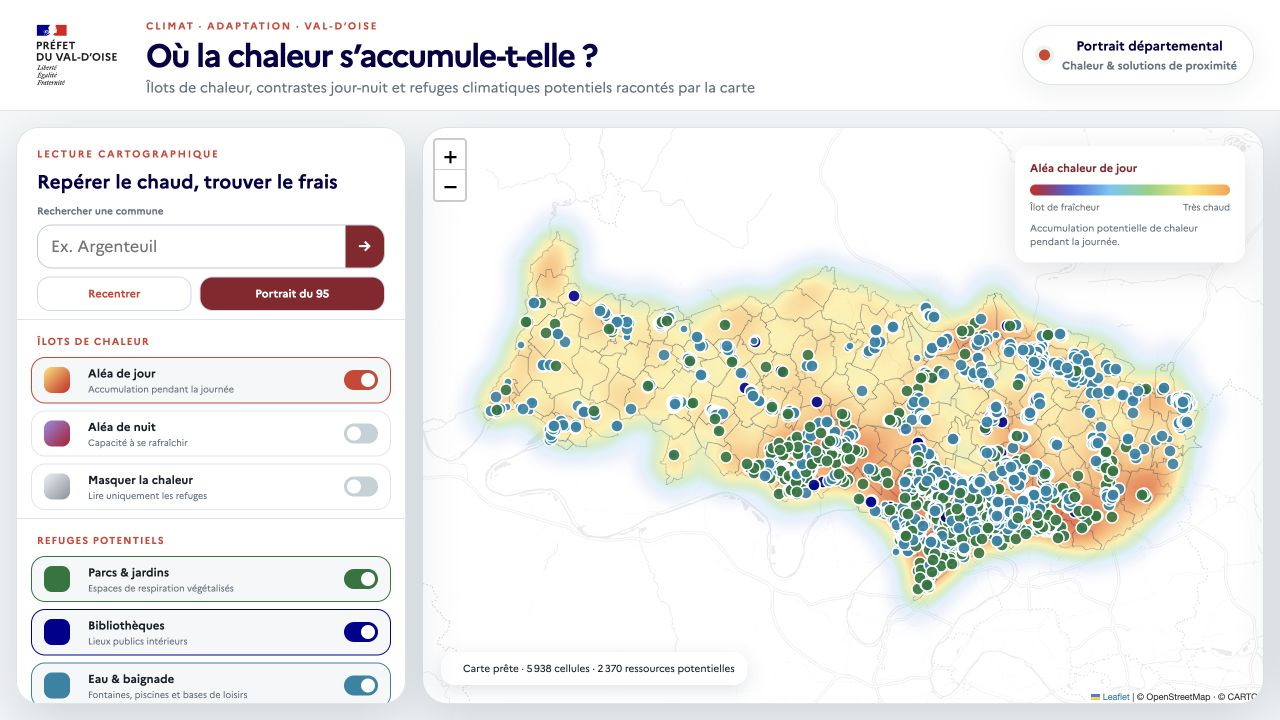
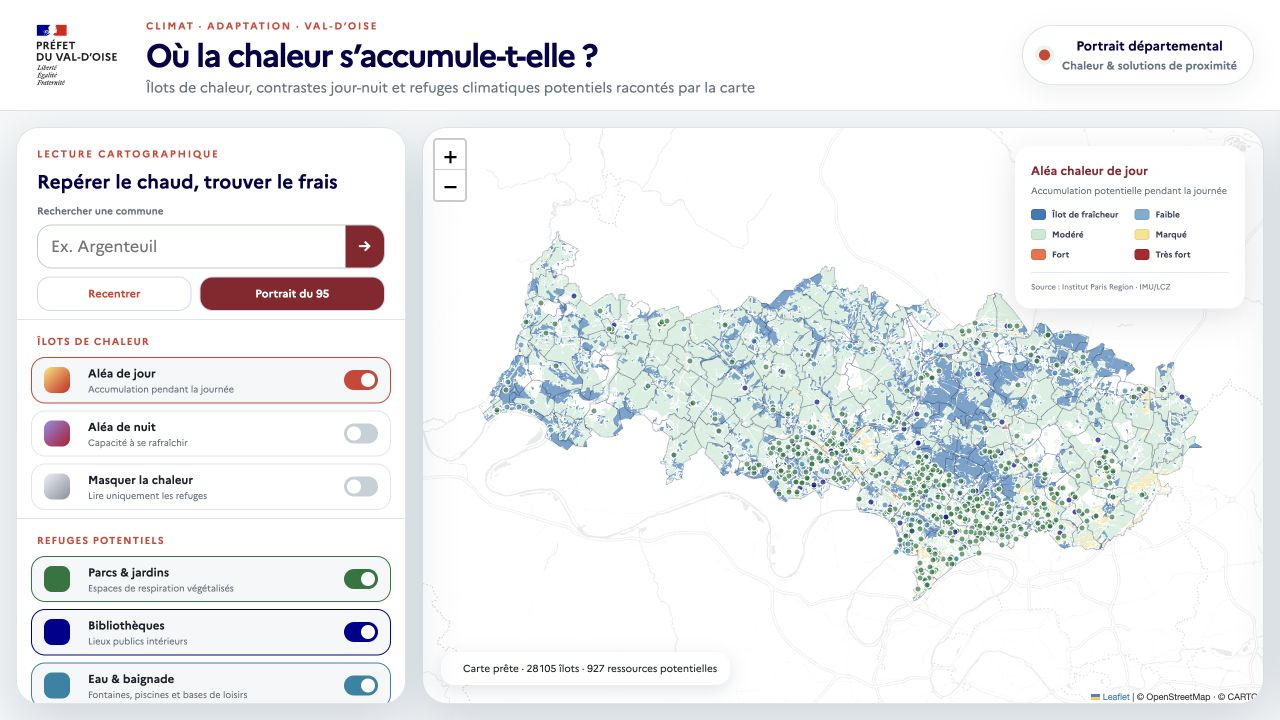
Refondre la carte de chaleur et sa légende

Changed region(s): [[0.3438, 0.3056, 0.9688, 0.8556], [0.7812, 0.2139, 0.9688, 0.3667], [0.4062, 0.9167, 0.5625, 0.9472]]

diff --git a/js/app.js b/js/app.js
@@ -3,12 +3,12 @@ const fmt=(n,d=0)=>Number(n||0).toLocaleString('fr-FR',{maximumFractionDigits:d}
 const state={heatMode:'day',refuges:new Set(['outdoor','indoor','water']),data:{},heatLayer:null,gridLayer:null,refugeLayer:null,communeLayer:null};
 const map=L.map('map',{zoomControl:true,preferCanvas:true,minZoom:8,maxZoom:17}).setView([49.08,2.15],10);
 L.tileLayer('https://{s}.basemaps.cartocdn.com/light_nolabels/{z}/{x}/{y}{r}.png',{maxZoom:19,subdomains:'abcd',attribution:'© OpenStreetMap · © CARTO'}).addTo(map);
-const heatGradients={day:{.05:'#4568dc',.22:'#65c7f7',.4:'#8bd37c',.58:'#ffe66d',.76:'#ff9f43',1:'#d7191c'},night:{.05:'#263b80',.25:'#536dcb',.45:'#9b8ee8',.65:'#e56ba4',.82:'#ff8a5c',1:'#b90d2f'}};
 const refugeColors={outdoor:'#18753c',indoor:'#000091',water:'#1683a6'};
-const cellColor=(value,night)=>{const ramp=night?['#263b80','#536dcb','#9b8ee8','#e56ba4','#ff8a5c','#b90d2f']:['#4568dc','#65c7f7','#8bd37c','#ffe66d','#ff9f43','#d7191c'];return ramp[Math.min(ramp.length-1,Math.floor(Math.max(0,value)*ramp.length))]};
-async function load(){try{const [heat,refuges,communes,profiles,boundary,polygons]=await Promise.all(['heat_points.json','refuges.json','communes_95.geojson','commune_profiles.json','val-doise.geojson','heat_polygons.geojson'].map(name=>fetch(`data/${name}?v=4`).then(r=>{if(!r.ok)throw Error(name);return r.json()})));state.data={heat,refuges,communes,profiles,boundary,polygons};renderHeat();renderRefuges();renderCommunes();map.fitBounds(L.geoJSON(boundary).getBounds(),{padding:[18,18]});$('mapStatus').textContent=`Carte prête · ${fmt(polygons.features.length)} îlots · ${fmt(refuges.length)} ressources potentielles`;bind()}catch(error){console.error(error);$('mapStatus').textContent='Certaines données ne sont pas disponibles'}}
-function renderHeat(){if(state.heatLayer){map.removeLayer(state.heatLayer);state.heatLayer=null}if(state.gridLayer){map.removeLayer(state.gridLayer);state.gridLayer=null}if(state.heatMode==='off'){$('mapLegend').hidden=true;return}$('mapLegend').hidden=false;const index=state.heatMode==='day'?2:3,property=state.heatMode==='day'?'day':'night',night=state.heatMode==='night';if(map.getZoom()<12){state.heatLayer=L.heatLayer(state.data.heat.map(p=>[p[0],p[1],p[index]]),{radius:22,blur:19,maxZoom:12,minOpacity:.24,gradient:heatGradients[state.heatMode]}).addTo(map)}else{state.gridLayer=L.geoJSON(state.data.polygons,{renderer:L.canvas({padding:.5}),style:f=>({stroke:true,color:'#ffffff',weight:.25,opacity:.35,fill:true,fillColor:cellColor((Number(f.properties[property])+1)/6,night),fillOpacity:.66}),interactive:false}).addTo(map)}$('mapLegend').querySelector('strong').textContent=`Aléa chaleur de ${night?'nuit':'jour'}`;$('mapLegend').querySelector('.ramp').style.background=`linear-gradient(90deg,${Object.values(heatGradients[state.heatMode]).join(',')})`;$('mapLegend').querySelector('p').textContent=map.getZoom()>=12?'Lecture détaillée par îlot morphologique urbain.':night?'Persistance de la chaleur et difficulté de refroidissement nocturne.':'Accumulation potentielle de chaleur pendant la journée.'}
-function renderRefuges(){if(state.refugeLayer)map.removeLayer(state.refugeLayer);state.refugeLayer=L.layerGroup();state.data.refuges.filter(r=>state.refuges.has(r.family)).forEach(refuge=>{const marker=L.circleMarker([refuge.lat,refuge.lon],{radius:refuge.type==='Point d’eau'?4:6,color:'#fff',weight:1.5,fillColor:refugeColors[refuge.family],fillOpacity:.9,pane:'markerPane'});marker.bindTooltip(`<strong>${esc(refuge.name)}</strong><br>${esc(refuge.type)}`,{className:'heat-tooltip'});marker.on('click',()=>showRefuge(refuge));marker.addTo(state.refugeLayer)});state.refugeLayer.addTo(map)}
+const heatColors=['#2c7bb6','#74add1','#c7e9d4','#fee08b','#f46d43','#b2182b'];
+const classIndex=value=>Math.max(0,Math.min(5,Math.round(Number(value)+1)));
+async function load(){try{const [refuges,communes,profiles,boundary,polygons]=await Promise.all(['refuges.json','communes_95.geojson','commune_profiles.json','val-doise.geojson','heat_polygons.geojson'].map(name=>fetch(`data/${name}?v=5`).then(r=>{if(!r.ok)throw Error(name);return r.json()})));state.data={refuges,communes,profiles,boundary,polygons};renderHeat();renderRefuges();renderCommunes();map.fitBounds(L.geoJSON(boundary).getBounds(),{padding:[18,18]});$('mapStatus').textContent=`Carte prête · ${fmt(polygons.features.length)} îlots · ${fmt(refuges.length)} ressources potentielles`;bind()}catch(error){console.error(error);$('mapStatus').textContent='Certaines données ne sont pas disponibles'}}
+function renderHeat(){if(state.heatLayer){map.removeLayer(state.heatLayer);state.heatLayer=null}if(state.gridLayer){map.removeLayer(state.gridLayer);state.gridLayer=null}if(state.heatMode==='off'){$('mapLegend').hidden=true;return}$('mapLegend').hidden=false;const property=state.heatMode==='day'?'day':'night',detailed=map.getZoom()>=12;state.gridLayer=L.geoJSON(state.data.polygons,{renderer:L.canvas({padding:.5}),style:f=>({stroke:detailed,color:'#fff',weight:detailed ? 0.45 : 0,opacity:.7,fill:true,fillColor:heatColors[classIndex(f.properties[property])],fillOpacity:detailed ? 0.78 : 0.7}),interactive:false}).addTo(map);$('mapLegend').querySelector('strong').textContent=`Aléa chaleur de ${state.heatMode==='night'?'nuit':'jour'}`;$('mapLegend').querySelector('.legend-intro').textContent=state.heatMode==='night'?'Capacité des îlots à se refroidir la nuit':'Accumulation potentielle pendant la journée'}
+function renderRefuges(){if(state.refugeLayer)map.removeLayer(state.refugeLayer);state.refugeLayer=L.layerGroup();const overview=map.getZoom()<11;state.data.refuges.filter(r=>state.refuges.has(r.family)).forEach(refuge=>{const marker=L.circleMarker([refuge.lat,refuge.lon],{radius:overview?3:refuge.type==='Point d’eau'?4:6,color:'#fff',weight:overview?1:1.5,fillColor:refugeColors[refuge.family],fillOpacity:overview ? 0.68 : 0.9,pane:'markerPane'});marker.bindTooltip(`<strong>${esc(refuge.name)}</strong><br>${esc(refuge.type)}`,{className:'heat-tooltip'});marker.on('click',()=>showRefuge(refuge));marker.addTo(state.refugeLayer)});state.refugeLayer.addTo(map)}
 function renderCommunes(){state.communeLayer=L.geoJSON(state.data.communes,{style:()=>({color:'#172554',weight:.55,opacity:.34,fillOpacity:0}),onEachFeature:(feature,layer)=>{const code=String(feature.properties.code||feature.properties.code_insee||feature.properties.insee),profile=state.data.profiles[code];layer.bindTooltip(profile?.name||feature.properties.nom,{sticky:true,className:'heat-tooltip'});layer.on({mouseover:e=>e.target.setStyle({weight:2,color:'#070047'}),mouseout:e=>state.communeLayer.resetStyle(e.target),click:()=>showCommune(code,layer)})}}).addTo(map)}
 function heatLabel(value){return value>=3.4?'aléa fort':value>=2.3?'aléa marqué':value>=1.2?'aléa modéré':'effet rafraîchissant ou limité'}
 function showCommune(code,layer){const p=state.data.profiles[code];if(!p)return;map.fitBounds(layer.getBounds(),{padding:[65,65],maxZoom:13});const nearby=state.data.refuges.filter(r=>layer.getBounds().contains([r.lat,r.lon])).length;$('detailContent').innerHTML=`<span class="detail-tag">COMMUNE · CHALEUR · VAL-D’OISE</span><h2>${esc(p.name)}</h2><p class="subtitle">Aléas morphoclimatiques · référentiel IPR</p><div class="property-grid"><div class="property hot"><small>ALÉA DE JOUR</small><strong>${heatLabel(p.day)}</strong><span>indice moyen ${fmt(p.day,1)}</span></div><div class="property night"><small>ALÉA DE NUIT</small><strong>${heatLabel(p.night)}</strong><span>indice moyen ${fmt(p.night,1)}</span></div></div><section class="heat-profile"><small>PART DES ÎLOTS LES PLUS CHAUDS</small><div><span>Jour <b>${fmt(p.hot_day_pct,1)} %</b></span><i><b style="width:${p.hot_day_pct}%"></b></i></div><div><span>Nuit <b>${fmt(p.hot_night_pct,1)} %</b></span><i><b style="width:${p.hot_night_pct}%"></b></i></div></section><section class="balance-card"><div><span>RESSOURCES REPÉRÉES</span><strong>${fmt(nearby)}</strong></div><p>Ressources potentielles dans l’emprise cartographique communale. Décompte indicatif.</p></section><p class="detail-method">Les valeurs agrègent les îlots dont le centroïde se situe dans la commune. Elles ne sont ni une température mesurée ni un classement réglementaire.</p>`;$('detailPanel').classList.add('open')}
@@ -16,5 +16,5 @@ function showRefuge(r){$('detailContent').innerHTML=`<span class="detail-tag">RE
 function search(q){const clean=s=>s.normalize('NFD').replace(/\p{Diacritic}/gu,'').toLowerCase(),items=Object.entries(state.data.profiles).filter(([,p])=>clean(p.name).includes(clean(q))).slice(0,8),box=$('searchResults');box.innerHTML=items.map(([code,p])=>`<button data-result="${code}">${esc(p.name)}</button>`).join('');box.hidden=!q||!items.length;box.querySelectorAll('button').forEach(button=>button.onclick=()=>{box.hidden=true;$('searchInput').value=state.data.profiles[button.dataset.result].name;state.communeLayer.eachLayer(layer=>{const props=layer.feature.properties,code=String(props.code||props.code_insee||props.insee);if(code===button.dataset.result)showCommune(code,layer)})})}
 function openSynthesis(){const profiles=Object.values(state.data.profiles),avg=k=>profiles.reduce((sum,p)=>sum+p[k],0)/profiles.length,hot=profiles.slice().sort((a,b)=>b.night-a.night).slice(0,5),counts=state.data.refuges.reduce((a,r)=>(a[r.family]=(a[r.family]||0)+1,a),{});$('synthesisContent').innerHTML=`<div class="synthesis-dashboard-head"><span class="detail-tag">SYNTHÈSE DÉPARTEMENTALE</span><h2>Chaleur et ressources de fraîcheur · Val-d’Oise</h2><p>Une vue d’ensemble pour prioriser les secteurs à approfondir et rendre visibles les solutions de proximité.</p></div><div class="synthesis-dashboard-kpis"><div class="kpi-tile warn"><small>Cellules de chaleur</small><strong>${fmt(state.data.heat.length)}</strong><em>grille simplifiée</em></div><div class="kpi-tile warn"><small>Aléa moyen jour</small><strong>${fmt(avg('day'),1)}</strong><em>indice relatif</em></div><div class="kpi-tile warn"><small>Aléa moyen nuit</small><strong>${fmt(avg('night'),1)}</strong><em>indice relatif</em></div><div class="kpi-tile"><small>Ressources potentielles</small><strong>${fmt(state.data.refuges.length)}</strong><em>OpenStreetMap</em></div><div class="kpi-tile"><small>Communes couvertes</small><strong>${fmt(profiles.length)}</strong><em>Val-d’Oise</em></div></div><section class="synthesis-viz"><div class="synthesis-section-head"><strong>Ressources repérées</strong><span>inventaire indicatif</span></div>${synthBar('Parcs & jardins',counts.outdoor||0,(counts.outdoor||0)/state.data.refuges.length*100,'#18753c')}${synthBar('Bibliothèques',counts.indoor||0,(counts.indoor||0)/state.data.refuges.length*100,'#000091')}${synthBar('Eau & baignade',counts.water||0,(counts.water||0)/state.data.refuges.length*100,'#1683a6')}</section><section class="synthesis-viz"><div class="synthesis-section-head"><strong>Refroidissement nocturne</strong><span>communes à approfondir</span></div>${hot.map((p,i)=>synthBar(`${i+1}. ${esc(p.name)}`,fmt(p.night,1),p.night/5*100,'#d82e66')).join('')}</section><div class="synthesis-insights"><strong>À retenir</strong><p>Le contraste jour-nuit est essentiel : les secteurs qui conservent la chaleur la nuit exposent davantage les habitants lors des épisodes longs.</p><p>La qualification officielle d’un refuge nécessite une validation locale des horaires, de l’accessibilité et du confort.</p></div><p class="detail-method">Sources : Institut Paris Region, OpenStreetMap et IGN. Voir les précautions pour les limites.</p>`;$('detailPanel').classList.remove('open');if(!$('synthesisDialog').open)$('synthesisDialog').showModal()}
 function synthBar(label,value,width,color){return `<div class="synthesis-bar-row"><div><span>${label}</span><b>${value}</b></div><div class="synthesis-bar-track"><i style="--bar-width:${Math.min(100,width)}%;--bar-color:${color}"></i></div></div>`}
-function bind(){document.querySelectorAll('[data-heat]').forEach(button=>button.onclick=()=>{state.heatMode=button.dataset.heat;document.querySelectorAll('[data-heat]').forEach(b=>b.classList.toggle('active',b===button));renderHeat()});document.querySelectorAll('[data-refuge]').forEach(button=>button.onclick=()=>{const type=button.dataset.refuge;state.refuges.has(type)?state.refuges.delete(type):state.refuges.add(type);button.classList.toggle('active',state.refuges.has(type));renderRefuges()});map.on('zoomend',()=>{if(state.heatMode!=='off')renderHeat()});$('searchInput').oninput=e=>search(e.target.value);$('searchButton').onclick=e=>{e.preventDefault();search($('searchInput').value)};$('resetView').onclick=()=>map.fitBounds(L.geoJSON(state.data.boundary).getBounds(),{padding:[18,18]});$('closeDetail').onclick=()=>$('detailPanel').classList.remove('open');$('openMethod').onclick=()=>$('methodDialog').showModal();$('openData').onclick=$('openDataTop').onclick=openSynthesis;document.querySelectorAll('[data-close]').forEach(button=>button.onclick=()=>$(button.dataset.close).close());$('mobileLayers').onclick=()=>{const open=$('layerSidebar').classList.toggle('open');$('mobileLayers').setAttribute('aria-expanded',open)}}
+function bind(){document.querySelectorAll('[data-heat]').forEach(button=>button.onclick=()=>{state.heatMode=button.dataset.heat;document.querySelectorAll('[data-heat]').forEach(b=>b.classList.toggle('active',b===button));renderHeat()});document.querySelectorAll('[data-refuge]').forEach(button=>button.onclick=()=>{const type=button.dataset.refuge;state.refuges.has(type)?state.refuges.delete(type):state.refuges.add(type);button.classList.toggle('active',state.refuges.has(type));renderRefuges()});map.on('zoomend',()=>{if(state.heatMode!=='off')renderHeat();renderRefuges()});$('searchInput').oninput=e=>search(e.target.value);$('searchButton').onclick=e=>{e.preventDefault();search($('searchInput').value)};$('resetView').onclick=()=>map.fitBounds(L.geoJSON(state.data.boundary).getBounds(),{padding:[18,18]});$('closeDetail').onclick=()=>$('detailPanel').classList.remove('open');$('openMethod').onclick=()=>$('methodDialog').showModal();$('openData').onclick=$('openDataTop').onclick=openSynthesis;document.querySelectorAll('[data-close]').forEach(button=>button.onclick=()=>$(button.dataset.close).close());$('mobileLayers').onclick=()=>{const open=$('layerSidebar').classList.toggle('open');$('mobileLayers').setAttribute('aria-expanded',open)}}
 load();

diff --git a/css/style.css b/css/style.css
@@ -229,7 +229,7 @@ input[type="range"]{width:100%;accent-color:var(--blue)}
 .layer-card[data-refuge="outdoor"]{--layer-color:#18753c}.layer-card[data-refuge="indoor"]{--layer-color:#000091}.layer-card[data-refuge="water"]{--layer-color:#1683a6}
 .heat-day{background:linear-gradient(135deg,#ffe66d,#d7191c)}.heat-night{background:linear-gradient(135deg,#9b8ee8,#b90d2f)}.heat-off{background:linear-gradient(135deg,#edf1f5,#87909c)}
 .refuge-outdoor{background:#18753c}.refuge-indoor{background:#000091}.refuge-water{background:#1683a6}
-.heat-legend{position:absolute;right:18px;top:18px;z-index:500;width:230px;padding:13px 14px;border:1px solid #fff;border-radius:14px;background:#fffffff2;box-shadow:0 8px 30px #0f172a20}.heat-legend strong{display:block;color:#8d1d2c;font-size:11px;margin-bottom:8px}.heat-legend .ramp{height:11px;border-radius:99px;background:linear-gradient(90deg,#4568dc,#65c7f7,#8bd37c,#ffe66d,#ff9f43,#d7191c)}.heat-legend .ramp-labels{display:flex;justify-content:space-between;margin-top:5px;color:var(--muted);font-size:9px}.heat-legend p{margin:8px 0 0;color:var(--muted);font-size:9.5px;line-height:1.4}
+.heat-legend{position:absolute;right:18px;top:18px;z-index:500;width:230px;padding:15px;border:1px solid #fff;border-radius:16px;background:#fffffff5;box-shadow:0 8px 30px #0f172a20}.heat-legend strong{display:block;color:#8d1d2c;font-size:12px}.heat-legend .legend-intro{margin:5px 0 11px;color:var(--muted);font-size:9px;line-height:1.35}.legend-classes{display:grid;grid-template-columns:1fr 1fr;gap:7px 9px}.legend-classes span{display:flex;align-items:center;gap:6px;color:#344054;font-size:8.5px;font-weight:700}.legend-classes i{width:15px;height:11px;flex:none;border-radius:3px;background:var(--class-color);box-shadow:inset 0 0 0 1px #00000012}.heat-legend .legend-note{margin:11px 0 0;padding-top:9px;border-top:1px solid #e4e8ef;color:#778195;font-size:7.5px;line-height:1.35}
 .heat-tooltip{font-family:Marianne,Arial,sans-serif;background:#251331;color:#fff;border:0;border-radius:10px;box-shadow:0 8px 22px #0003}.heat-tooltip:before{border-top-color:#251331}
 .detail-tag,.kpi-tile strong{color:var(--heat-dark)}.property.hot{border-top-color:#e65c2f}.property.night{border-top-color:#69458e}.property strong{font-size:15px;text-transform:capitalize;color:#411524}.property span{display:block;margin-top:4px;color:var(--muted);font-size:9px}
 .heat-profile{margin-top:18px;padding:16px;border-radius:15px;background:#fff4ef}.heat-profile>small{display:block;color:#7e2830;font-size:9px;font-weight:800;letter-spacing:.08em}.heat-profile>div{margin-top:12px}.heat-profile span{display:flex;justify-content:space-between;color:#4c3440;font-size:10px}.heat-profile i{display:block;height:8px;margin-top:5px;border-radius:99px;background:#f2dcd5;overflow:hidden}.heat-profile i b{display:block;height:100%;border-radius:inherit;background:linear-gradient(90deg,#ffbb55,#d62f2f)}.heat-profile>div:last-child i b{background:linear-gradient(90deg,#9b8ee8,#b90d2f)}

diff --git a/index.html b/index.html
@@ -35,7 +35,7 @@
     <div class="sidebar-footer"><span class="fresh-dot"></span><div><strong>Référentiels publics croisés</strong><small>Institut Paris Region · OpenStreetMap · IGN</small></div></div>
   </aside>
   <section class="map-shell" aria-label="Carte interactive"><div id="map"></div>
-    <div id="mapLegend" class="heat-legend"><strong>Aléa chaleur de jour</strong><div class="ramp"></div><div class="ramp-labels"><span>Îlot de fraîcheur</span><span>Très chaud</span></div><p>Lecture relative des zones climatiques locales.</p></div>
+    <div id="mapLegend" class="heat-legend"><strong>Aléa chaleur de jour</strong><p class="legend-intro">Influence thermique potentielle</p><div class="legend-classes" aria-label="Classes de chaleur"><span><i style="--class-color:#2c7bb6"></i>Îlot de fraîcheur</span><span><i style="--class-color:#74add1"></i>Faible</span><span><i style="--class-color:#c7e9d4"></i>Modéré</span><span><i style="--class-color:#fee08b"></i>Marqué</span><span><i style="--class-color:#f46d43"></i>Fort</span><span><i style="--class-color:#b2182b"></i>Très fort</span></div><p class="legend-note">Source : Institut Paris Region · IMU/LCZ</p></div>
     <div class="map-note"><span class="pulse"></span><span id="mapStatus">Chargement des données…</span></div>
   </section>
   <aside id="detailPanel" class="detail-panel" aria-live="polite"><button id="closeDetail" class="close-btn" aria-label="Fermer">×</button><div id="detailContent"></div></aside>
@@ -47,5 +47,5 @@
   <h3>Comment lire la carte</h3><ul><li>Basculez entre le jour et la nuit pour voir où le refroidissement nocturne est plus difficile.</li><li>Activez ou masquez chaque famille de refuge.</li><li>Cliquez sur une commune ou un refuge pour ouvrir son portrait.</li></ul>
   <div class="source-cards"><div class="source-card"><h3>Données et méthode</h3><p>Millésimes, traitements, licences et limites sont documentés dans le dépôt.</p><a href="SOURCES.md" target="_blank">Consulter les sources ↗</a></div><div class="source-card"><h3>Code source</h3><p>Application et données versionnées, librement consultables.</p><a href="https://github.com/DDT95/chaleur-refuges-95" target="_blank" rel="noopener">Voir le dépôt ↗</a></div></div>
 </div></dialog>
-<script src="https://unpkg.com/leaflet@1.9.4/dist/leaflet.js" crossorigin=""></script><script src="https://unpkg.com/leaflet.heat@0.2.0/dist/leaflet-heat.js"></script><script src="js/app.js?v=4"></script>
+<script src="https://unpkg.com/leaflet@1.9.4/dist/leaflet.js" crossorigin=""></script><script src="js/app.js?v=5"></script>
 </body></html>

diff --git a/design-qa.md b/design-qa.md
@@ -38,7 +38,7 @@ Focused checks covered the header/logo lockup, sidebar cards and switches, map l
 
 1. P1: the initial heat layer called an unsupported `bringToBack` method, stopping markers, commune geometry and interaction binding. Fix: removed the unsupported call. Post-fix evidence: clean browser load, populated markers, working search/detail drawer and no console errors.
 2. P2: the previous six-card Atlas layout could not accommodate the seventh entry as requested. Fix: changed the desktop grid to four columns, reduced visual header height and card density. Post-fix evidence: `atlas-understand-desktop.png` shows four cards on the first row and three on the second.
-3. P1: at neighbourhood zoom, a point heatmap produced isolated halos, then visible kernel artefacts when its radius was enlarged. Fix: the smoothed heatmap is now limited to the departmental scale; from neighbourhood zoom onward the map renders the 28,105 official morphoclimatic island geometries. Post-fix evidence: `implementation-zoom.png` shows clean, contiguous polygons after four zoom levels, with no console errors.
+3. P1: point-based heat rendering produced isolated halos and kernel artefacts, while the first polygon pass lacked an explanatory legend. Fix: point heat rendering was removed entirely. Every scale now uses the 28,105 official morphoclimatic islands with a stable six-class blue-to-red palette and a labelled legend. Post-fix evidence: `implementation-desktop.png` and `implementation-zoom.png` show the same graphic language before and after four zoom levels, with no console errors.
 4. P1: generic OSM swimming-pool geometries included residential pools. Fix: private/forbidden access is excluded globally and pools now require a name plus an explicit public, customer/member or operator signal. The resource set fell from 2,370 to 927, including one documented pool.
 
 ## Follow-up polish

diff --git a/SOURCES.md b/SOURCES.md
@@ -12,9 +12,9 @@ Version préparée le **16 août 2026**.
 ## Traitements
 
 - extraction des centroïdes d’îlots situés dans le Val-d’Oise ;
-- agrégation sur une grille d’environ 350 à 400 mètres pour fluidifier la heatmap ;
-- deux intensités distinctes construites avec les classes d’aléa de jour et de nuit ;
-- affichage des géométries officielles des îlots morphologiques urbains à partir du zoom de quartier ;
+- deux lectures distinctes construites avec les classes d’aléa de jour et de nuit ;
+- affichage des 28 105 géométries officielles des îlots morphologiques urbains à toutes les échelles ;
+- palette divergente en six classes, stable pendant le zoom : fraîcheur, faible, modéré, marqué, fort et très fort ;
 - profils communaux calculés par appartenance du centroïde à la commune ;
 - ressources OpenStreetMap filtrées par emprise départementale et réparties en trois familles ;
 - exclusion de tout équipement déclaré `access=private` ou `access=no` ; une piscine doit être nommée et comporter un signal d’accès public, clients/adhérents ou un opérateur identifiable.
